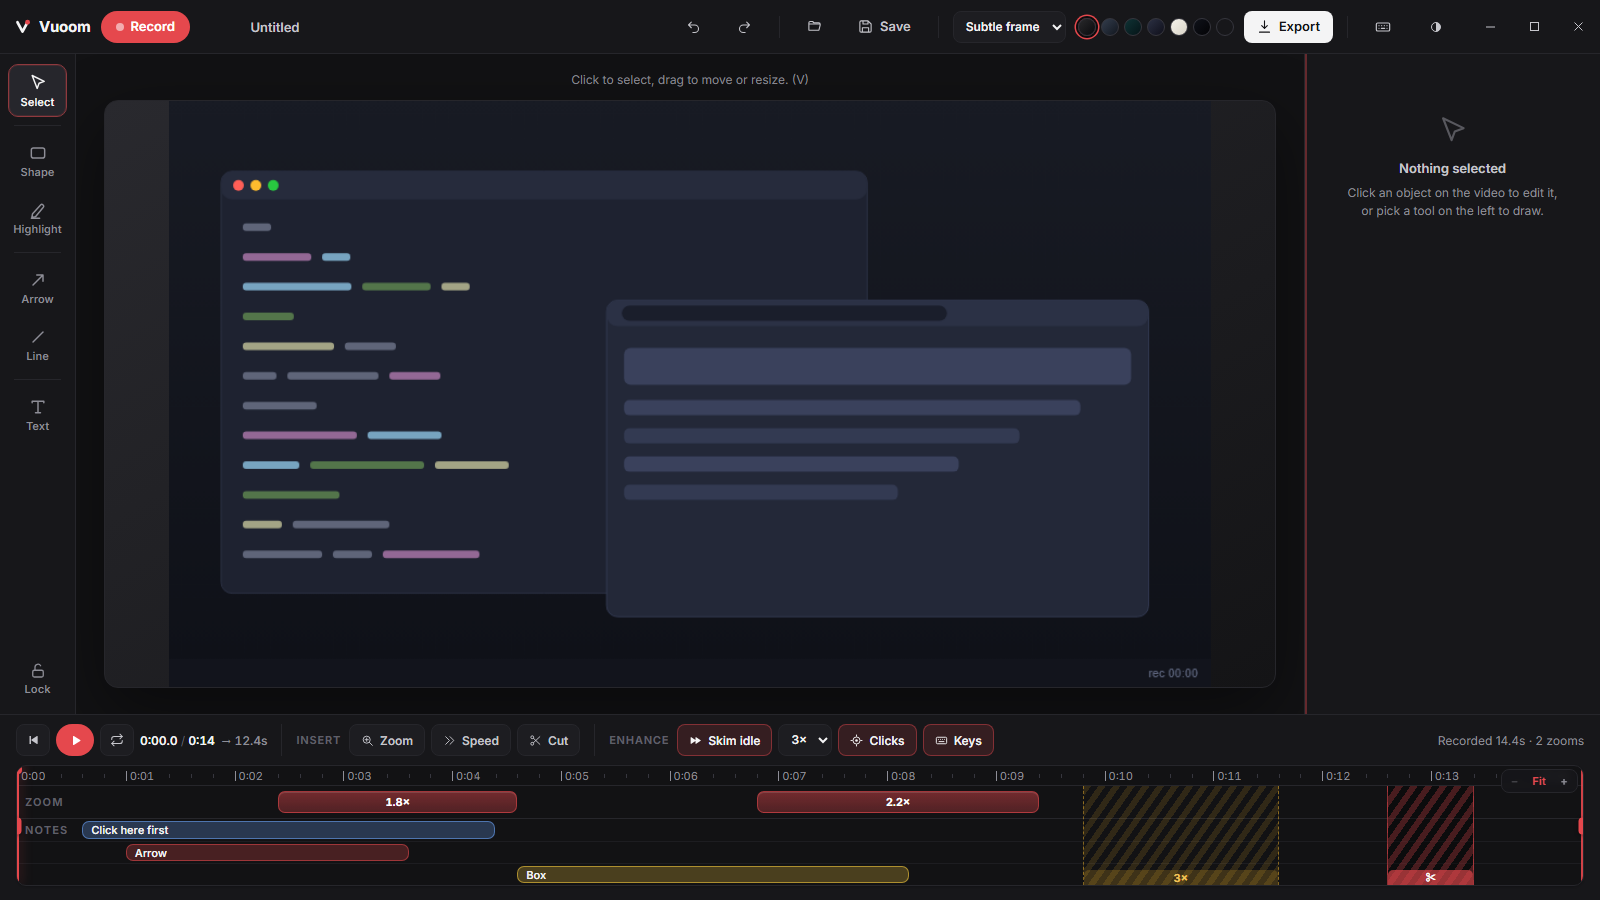
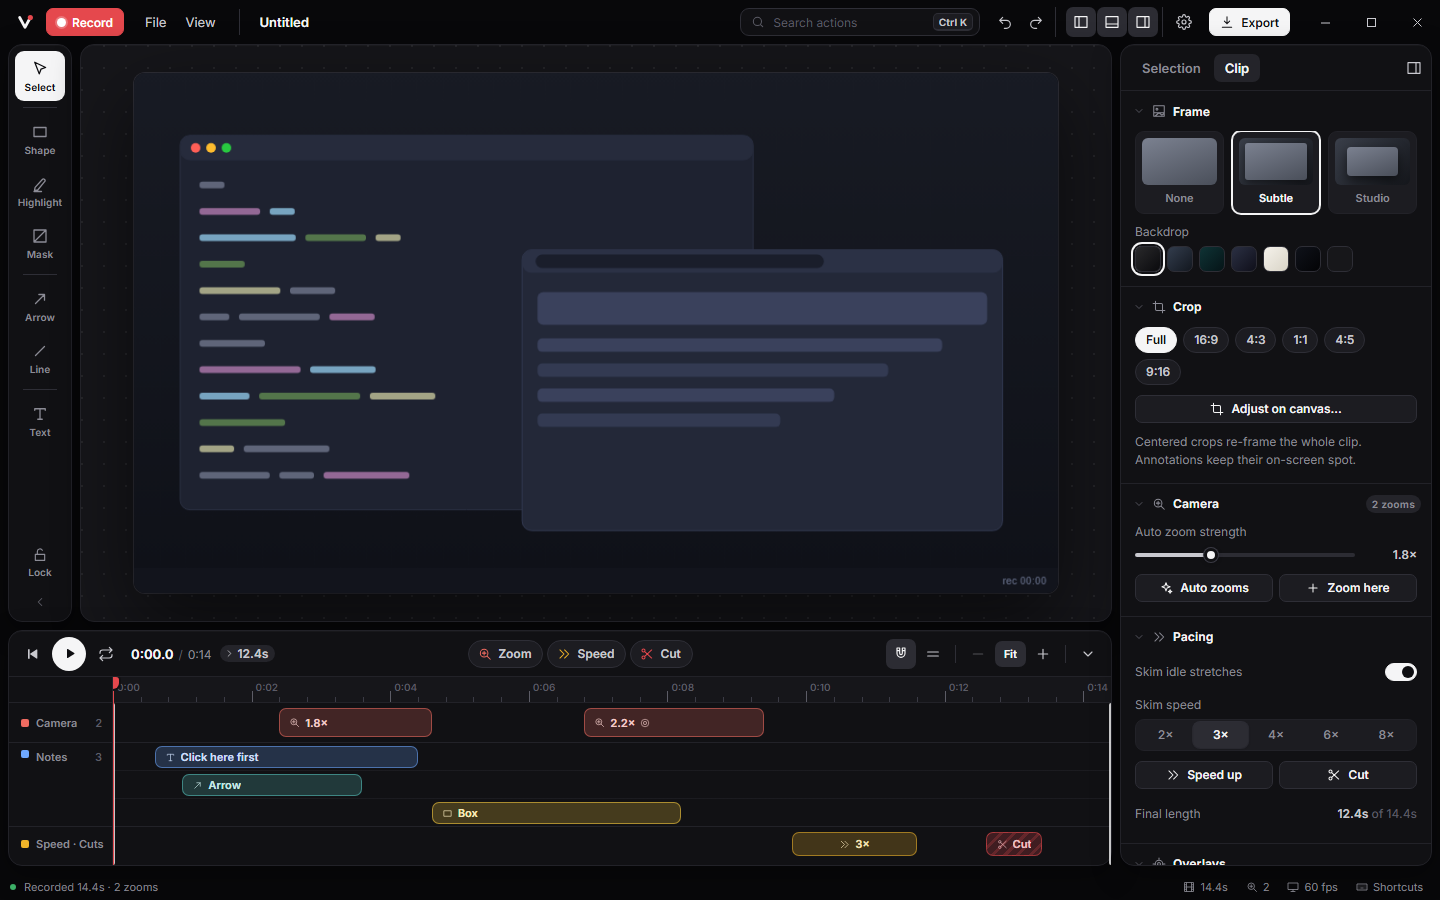
docs: studio redesign, recording pipeline notes, fresh screenshots
- README: new workspace section, updated features and shortcut table,
  screenshots regenerated from the browser mock with headless Chrome.
- docs/13-Recording-Pipeline.md: capture pacing, the compressed frame store,
  copy-based project saves and hardware MP4, with sources.
- docs/AUDIT-AND-REDESIGN.md: Part 7 on the v3 architecture and UX.
- Mock: `&onedisplay` skips the display picker; command results are cloned
  after async handlers resolve; programmatic heading focus shows no ring.

diff --git a/src/bridge.ts b/src/bridge.ts
@@ -25,7 +25,7 @@ export function invoke<T = unknown>(cmd: string, args?: Record<string, unknown>)
   if (!isMock) return tauriInvoke<T>(cmd, args);
   // Clone like real IPC would: the mock keeps and mutates its own objects, and handing
   // those references to the UI would defeat Solid's reference-based list diffing.
-  return Promise.resolve(structuredClone(handleMock(cmd, args ?? {})) as T);
+  return Promise.resolve(handleMock(cmd, args ?? {})).then((r) => structuredClone(r) as T);
 }
 
 export function listen<T>(event: string, cb: (payload: T) => void): Promise<() => void> {
@@ -142,6 +142,9 @@ function handleMock(cmd: string, a: Record<string, unknown>): unknown {
     case "plan_zoom_auto":
       return m.planZoomAuto(a.amount as number);
     case "list_displays":
+      // `&onedisplay` skips the display picker (screenshots of the region HUD).
+      if (params.has("onedisplay"))
+        return [{ name: "\\.DISPLAY1", index: 1, x: 0, y: 0, w: 1920, h: 1080, primary: true }];
       return [
         { name: "\\.DISPLAY1", index: 1, x: 0, y: 0, w: 1920, h: 1080, primary: true },
         { name: "\\.DISPLAY2", index: 2, x: 1920, y: 0, w: 2560, h: 1440, primary: false },

diff --git a/src/components/Home.tsx b/src/components/Home.tsx
@@ -7,7 +7,7 @@ import { prefs } from "../prefs";
 import { Kbd, Seg } from "../ui";
 
 const SOURCES: { mode: "region" | "full" | "window"; icon: IconName; title: string; sub: string }[] = [
-  { mode: "region", icon: "region", title: "Region", sub: "Draw any area or snap to 16:9" },
+  { mode: "region", icon: "region", title: "Region", sub: "Any area, any aspect ratio" },
   { mode: "full", icon: "fullscreen", title: "Full screen", sub: "Everything on one display" },
   { mode: "window", icon: "window", title: "Window", sub: "Follow a single app window" },
 ];

diff --git a/src/styles/base.css b/src/styles/base.css
@@ -76,6 +76,10 @@ button:disabled {
   box-shadow: var(--focus);
   border-radius: var(--r-sm);
 }
+/* Headings and panels focused programmatically (dialog phase changes) stay quiet. */
+[tabindex="-1"]:focus-visible {
+  box-shadow: none;
+}
 
 * {
   scrollbar-width: thin;

diff --git a/README.md b/README.md
@@ -34,53 +34,66 @@ Windows, in a small native app:
 **Record, zoom happens where you point, cut the dead air, export a GIF or MP4
 you can paste anywhere.**
 
-## A redesigned experience
+## A studio, not a toolbar
 
-The whole interface was rebuilt around one idea: a quiet, focused editor that
-stays out of your way until you need it.
+The interface is a quiet workspace built from floating panels you control:
+
+- **Every panel is yours to arrange.** Show or hide the tool rail, inspector and
+  timeline (`Ctrl+1/2/3`), drag the inspector and timeline to any size, collapse
+  the timeline to its transport bar, slim the tool rail to icons. Double click a
+  divider to reset it, `Ctrl+0` resets everything. Layout is remembered.
+- **An inspector that follows you.** Select something and its every property is
+  there in collapsible sections; select nothing and the **Clip** tab holds the
+  whole-recording settings: frame and backdrop, crop, auto zooms, pacing, click
+  ripples and keystrokes.
+- **Search every action** with `Ctrl+K`, right-click anything for its menu, and
+  hover any control to see its shortcut.
+- **Home that starts the right take**: Region, Full screen or Window, with frame
+  rate, zoom strength and countdown set right there.
 
 | | |
 |---|---|
 | <img src=".github/assets/screenshot-home.png" alt="Vuoom home with recovery and recents" /> | <img src=".github/assets/screenshot-record.png" alt="Picking a region to record" /> |
-| **Home that helps.** A calm hero, one big Record button, crash recovery, and your recent projects on a card grid. | **Framing first.** Frozen-desktop region picking with social presets, live pixel dimensions, and zoom strength before you start. |
+| **Home that starts the right take.** Region, full screen or window, with frame rate, zoom and countdown on the page; recovery and recents below. | **Framing first.** One glass HUD over the frozen desktop: aspect presets, zoom, fps and countdown next to a single Record button. |
 | <img src=".github/assets/screenshot-export.png" alt="The export card with GIF and MP4 presets" /> | <img src=".github/assets/screenshot-editor-light.png" alt="The editor in the light theme" /> |
-| **Export without a wizard.** Format and presets on one card, honest size estimates, live progress, then copy or reveal. | **Five themes, re-tuned.** Black and white first, plus Graphite, Paper and Midnight. No purple anywhere. |
+| **Export without a wizard.** Format cards, presets, sliders, an honest size estimate and a fit-under-N-MB helper, then copy or reveal. | **Five themes, re-tuned.** Black and white first, plus Graphite, Paper and Midnight. No purple anywhere. |
 
 ## Features
 
-- 🎥 **Native capture**: Windows Graphics Capture at full resolution, full
-  screen or a region (16:9 / 9:16 / 1:1 / 4:5 presets for social-ready
-  framing). A red frame shows exactly what is being recorded (and never appears
-  in it). Works on **any monitor** and you can **pause/resume** mid-take.
-- 🔍 **Cinematic zoom**: press `Ctrl+Shift+Z` while recording to glide the
-  camera into your cursor (and again to pull back out). Critically damped
-  spring motion, never a hard cut, never shows off-screen area. In the editor,
-  every zoom is **aimable**: follow the cursor, or drag a crosshair to lock
-  onto one spot.
-- 🎞 **A real editor, not a video NLE**: timeline with a ruler, playhead and
-  drag-to-scrub; **trim** handles; **cut out** the middle bits you don't want;
-  **zoom blocks** you can move, resize, re-level, add (hover the lane for the
-  click-to-add ghost) or delete; **"Skim idle"** that plays dead stretches at
-  2 to 8x, plus manual speed regions; **undo/redo** across everything.
-- ✏ **Annotations**: text labels (bold/italic, color presets, six bundled
-  display fonts), arrows, lines, boxes and ellipses with fill/thickness
-  controls. Each one gets its own timeline lane: drag to control when (and how
-  long) it shows, `Ctrl+D` to duplicate.
-- 👆 **Demo polish, baked in**: **click ripples** at every recorded mouse
-  click, a **keystroke overlay** that shows shortcuts like `Ctrl+C` as chips
-  (plain typing is never shown, so passwords can't leak), and **Subtle / Studio
-  frame presets** with seven backdrop gradients.
-- 📦 **Export GIF or MP4**: optimized GIF for READMEs (with a **live size
-  estimate**), or H.264 MP4 up to 60 fps for Slack / X / YouTube, encoded by
-  Windows itself, no ffmpeg. One-click **Copy** pastes the file anywhere.
-- 💾 **Projects and crash recovery**: save everything as a `.vuoom` bundle;
-  frames stream to disk while recording, so length isn't capped by RAM, and a
-  crash or accidental close offers **"Recover last session"** on the next
-  launch. Recent projects wait on the home grid.
-- 🎨 **Five clean themes**, toasts for every action, keyboard-first editing
-  with a cheat sheet under `?`, and zero purple.
+- 🎥 **Native capture**: Windows Graphics Capture at full resolution: a region
+  (free or 16:9 / 9:16 / 1:1 / 4:5), a whole display, or a single app window,
+  on any monitor, with pause/resume. Capture is paced at the compositor to the
+  frame rate you pick (24 / 30 / 60 fps), so a 144 Hz screen doesn't burn CPU on
+  frames nobody needs.
+- 🗜 **Recordings that stay small**: frames are stored losslessly as LZ4
+  compressed XOR deltas with periodic keyframes, typically 20x+ smaller than raw
+  pixels, streamed to disk as you record so length is bounded by your drive and
+  a crash never loses the take.
+- 🔍 **Cinematic zoom**: press `Ctrl+Shift+Z` while recording to glide the camera
+  into your cursor (and again to pull back out). Critically damped spring motion,
+  never a hard cut. In the editor every zoom is aimable (follow the cursor or lock
+  a crosshair), has a feel (Smooth / Snappy / Slow), and **Auto zooms** can
+  re-plan them from your clicks at any strength.
+- 🎞 **A real editor, not a video NLE**: timeline with named, colour-coded tracks,
+  magnetic snapping, trim handles (or `I` / `O`), cuts, speed-ups, **Skim idle**
+  (2 to 8x on dead stretches), timeline zoom, undo/redo across everything.
+- ✂ **Visual crop**: drag a crop rectangle right on the video with aspect locks
+  and rule-of-thirds guides, or pick a centered preset.
+- ✏ **Annotations**: text (six display fonts, bold/italic, legible plate),
+  arrows, lines, boxes, ellipses, highlights and **redaction masks**, each with
+  its own timeline bar, colour, opacity, fade in / fade out and stacking order.
+- 👆 **Demo polish**: click ripples, a keystroke overlay that shows shortcuts
+  (never plain typing), and Subtle / Studio frame presets on seven backdrops.
+- 📦 **Export GIF or MP4**: optimized GIF with a live size estimate and a
+  fit-under-N-MB helper, or H.264 MP4 up to 60 fps encoded by Windows on your
+  GPU (NVENC / Quick Sync / AMF) when available. One-click **Copy** pastes the
+  file anywhere.
+- 💾 **Projects and crash recovery**: save a `.vuoom` project in seconds (the
+  compressed frames are copied, not re-encoded), reopen it from the recents grid,
+  and recover the last unsaved take after a crash.
+- 🎨 **Five themes**, reduced-motion mode, and zero purple.
 - 🪶 **Lightweight**: Tauri + Rust, not Electron. The webview is just the
-  cockpit; capture, compositing (wgpu) and encoding all run natively.
+  cockpit; capture, compositing (wgpu) and encoding run natively.
 
 ## Quick start
 
@@ -102,16 +115,22 @@ stays out of your way until you need it.
 | `Ctrl+Shift+R` | Start the record flow |
 | `Ctrl+Shift+Z` | Zoom in / out at the cursor (while recording) |
 | `Ctrl+Shift+X` | Stop recording (global) |
+| `Ctrl+K` | Search every action |
 | `Space` | Play / pause |
 | `←` / `→` | Scrub the playhead (`Shift` = 1s jumps, `Home`/`End` = trim bounds) |
-| `Z` / `X` / `C` | Insert a zoom / speed region / cut at the playhead |
-| `V` `T` `A` `L` `S` `H` | Select, Text, Arrow, Line, Shape, Highlight tools |
+| `I` / `O` | Trim start / end at the playhead (`Shift` clears) |
+| `Z` / `X` / `C` | Insert a zoom / speed-up / cut at the playhead |
+| `V` `T` `A` `L` `S` `H` `M` | Select, Text, Arrow, Line, Shape, Highlight, Mask |
 | Arrow keys | Nudge the selected annotation (`Shift` = bigger steps) |
 | `Ctrl+Z` / `Ctrl+Y` | Undo / redo any edit |
-| `Ctrl+D` | Duplicate the selected annotation |
-| `Delete` | Remove the selected annotation, zoom, speed region, or cut |
+| `Ctrl+D` / `Ctrl+C` / `Ctrl+V` | Duplicate / copy / paste annotations |
+| `Ctrl+]` / `Ctrl+[` | Bring forward / send backward (`Shift` = front / back) |
+| `Delete` | Remove the selected annotation, zoom, speed-up, or cut |
+| `Ctrl+1` / `Ctrl+2` / `Ctrl+3` | Show or hide tools / inspector / timeline |
+| `Ctrl+0` | Reset the layout |
 | `Ctrl+S` / `Ctrl+O` | Save / open a project |
 | `Ctrl+E` | Export GIF / MP4 |
+| `Ctrl+,` | Settings |
 | `?` | Keyboard cheat sheet |
 
 ## How it's built
@@ -129,8 +148,10 @@ SolidJS + Vite (editor UI)  <-WebSocket preview-  Rust engine
 ```
 
 The same `render(t)` path drives scrubbing **and** export, so what you preview
-is exactly what ships. While recording, frames stream straight to disk: clip
-length is bounded by your drive, not your RAM. Design docs live in
+is exactly what ships. While recording, frames stream straight to disk as
+compressed deltas: clip length is bounded by your drive, not your RAM. The UI is
+a SolidJS app whose state lives in one editor store (`src/editor/`) that the
+components in `src/components/` render. Design docs live in
 [`docs/`](./docs), including the [redesign blueprint](docs/AUDIT-AND-REDESIGN.md).
 
 ## Building from source

diff --git a/docs/13-Recording-Pipeline.md b/docs/13-Recording-Pipeline.md
@@ -1,0 +1,74 @@
+# Recording pipeline: capture, storage, saving, encoding
+
+How a take gets from the screen to disk, into a project, and out as an MP4, and why each
+stage is built the way it is. Numbers are for a 1920×1080 capture unless noted.
+
+## 1. Capture: pace at the compositor
+
+Windows Graphics Capture (WGC) delivers a frame on every DWM composition unless told
+otherwise: 60, 144 or 240 per second depending on the display. Each delivery costs a
+GPU→CPU copy of the whole frame, so a 144 Hz monitor used to push ~1.2 GB/s through the
+capture callback, most of it identical frames we then discarded.
+
+Vuoom sets `MinUpdateInterval` on the capture session so the compositor itself coalesces
+updates and hands over the **latest** content once the interval passes; nothing visible is
+dropped. Measured throttling undershoots (an interval of 1/60 s yields about 45 fps, see
+[windows-capture#190](https://github.com/NiiightmareXD/windows-capture/issues/190)), so the
+interval is set 1.5× tighter than the target. The target is a user setting (24 / 30 / 60
+fps, `set_capture_fps`); the live preview runs its own capture capped at 30 fps. Windows 10
+lacks the API, where capture stays uncapped as before.
+
+We deliberately do **not** drop frames in software after they arrive: WGC only delivers on
+change, so dropping an early frame could lose the last visible state of a static screen.
+
+## 2. Storage: compressed deltas, streamed to disk
+
+Raw BGRA is 8.3 MB per frame, ~250 MB/s at 30 fps and ~500 MB/s at 60 fps. Screen content
+is extremely redundant: flat UI, and between two frames usually only a caret, a hover state
+or a scrolled panel changes. The frame store (`src-tauri/src/frame_store.rs`) exploits that:
+
+- **Duplicate frames** are a 28-byte index record and no pixel I/O.
+- **Delta frames** are the XOR of the frame against the previous one. Unchanged pixels
+  become zero bytes, which LZ4 compresses to almost nothing.
+- **Keyframes** (every 30 frames, or on a size change) are LZ4 of the pixels themselves, so
+  a random seek replays at most 30 deltas.
+- Frames are cut into horizontal strips that are compressed and decompressed in parallel on
+  rayon's pool, keeping a 4K frame well inside a 60 fps budget. LZ4 compresses at
+  >500 MB/s per core and decodes at GB/s ([lz4.org](https://lz4.org/),
+  [lz4_flex](https://github.com/pseitz/lz4_flex), pure Rust, no unsafe by default).
+- When compression would not save bytes (tiny or noisy frames) the frame is stored raw.
+
+The encoding rides in the spare top three bits of each index record's length field, so
+stores written by older builds (raw BGRA) still open unchanged. Crash recovery is intact:
+pixels and index are appended incrementally, and `FrameStore::open` trims to the last frame
+whose bytes fully reached disk (and never starts on a delta).
+
+Sequential access (playback, export) decodes one delta per frame on top of the cached
+previous frame. Typical screencasts shrink by one to two orders of magnitude; the disk-space
+guard still plans for a pessimistic 4× ratio because full-motion content (a video playing
+inside the recording) compresses far less.
+
+## 3. Saving: copy, don't re-encode
+
+Project bundles used to hold one PNG per frame: minutes of deflate for a long take and
+gigabytes on disk, with every duplicate frame written again. A `.vuoom` bundle now holds
+the compressed frame store itself (`frames/frames.raw` + `frames/index.bin`), copied
+byte-for-byte, with timestamps rebased to a portable 10 MHz timebase (the QPC epoch and
+frequency are machine-specific). Saving is a file copy; opening is a file copy into the
+scratch store. Old PNG bundles still open, and saving over one removes its PNGs.
+
+## 4. MP4 export: let the GPU encode
+
+The Media Foundation sink writer only considers hardware encoders (NVENC, Quick Sync, AMF)
+when `MF_READWRITE_ENABLE_HARDWARE_TRANSFORMS` is set at creation
+([docs](https://learn.microsoft.com/en-us/windows/win32/medfound/mf-readwrite-enable-hardware-transforms)).
+Vuoom sets it and also disables sink-writer throttling (export is offline, frames should be
+accepted as fast as we composite them). If a vendor MFT rejects the configuration, the
+writer is recreated with the software encoder.
+
+## Future work
+
+- Feed the encoder D3D11 textures straight from the compositor (zero-copy) instead of
+  reading RGBA back to the CPU.
+- Use WGC dirty regions (Windows 11 24H2+) to skip XOR work on untouched strips.
+- Rate control via `ICodecAPI` (constant quality instead of average bitrate).

diff --git a/docs/AUDIT-AND-REDESIGN.md b/docs/AUDIT-AND-REDESIGN.md
@@ -125,3 +125,26 @@ redesign, in this order:
 
 Explicitly out of scope for v1: cloud hosting, collaboration, a marketplace, a music
 library, or a general multitrack editor.
+
+## Part 7: Studio redesign (v3, 2026-09-24)
+
+The v2 interface still kept all state and markup in one `App.tsx` and packed settings into
+a popover and a toolbar. v3 rebuilds the experience around control and focus:
+
+- **Architecture.** All editor state and actions live in `src/editor/createEditor.ts`,
+  handed to components through `EditorContext`. The UI is `src/components/*` (Titlebar,
+  Home, ToolRail, Stage, CropEditor, Inspector, Timeline, StatusBar, dialogs), styled by
+  `src/styles/*` on one token file, one icon set (`src/icons.tsx`) and one primitive kit
+  (`src/ui.tsx`). Preferences and layout persist through `src/prefs.ts`.
+- **Workspace.** Floating panels, each hideable (`Ctrl+1/2/3`), with resizable inspector
+  and timeline, a compact rail, and `Ctrl+0` to reset.
+- **Inspector.** Selection and Clip tabs with collapsible sections. The Clip tab replaces
+  the Appearance popover and the Enhance toolbar.
+- **Direct manipulation.** Right-click menus everywhere, a visual crop editor, I/O trim,
+  fade in/out fields, a command palette (`Ctrl+K`) and a tooltip layer that shows each
+  control's shortcut.
+- **Recording.** Home offers Region / Full screen / Window with fps, zoom and countdown;
+  the region selector is one HUD; the live panel was rebuilt for its 384×300 window.
+
+The recording pipeline work that shipped alongside is described in
+[13-Recording-Pipeline.md](./13-Recording-Pipeline.md).
